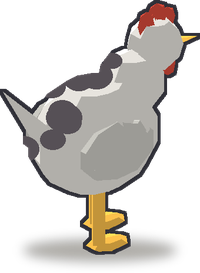
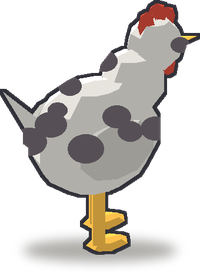
Поставить Орловскую ситцевую
Эта пришла уже мордой вправо, отражать не пришлось.

Claude-Session: https://claude.ai/code/session_013ovumMuRfj2SmgMR5kzGwz

Changed region(s): [[0.09, 0.1758, 0.63, 0.6154], [0.51, 0.381, 0.81, 0.5275], [0.84, 0.1172, 0.96, 0.2051]]

diff --git a/docs/ART-TODO.md b/docs/ART-TODO.md
@@ -25,7 +25,7 @@ python3 tools/import-art.py картинка.png <id>
 
 ## Список
 
-Всего животных 19, готовы 3.
+Всего животных 19, готовы 4.
 
 | Готово | Файл | Порода | Постройка | Уровень | Как выглядит |
 |:---:|---|---|---|:---:|---|
@@ -33,7 +33,7 @@ python3 tools/import-art.py картинка.png <id>
 | ✅ | `breed-moskchern.png` | Московская чёрная | Курятник | 2 | Чёрная, золотистая грива |
 | ✅ | `breed-leggorn.png` | Леггорн | Курятник | 3 | Белая, высокая, крупный гребень набок |
 |  | `breed-tula.png` | Тульский бойцовый | Гусятник | 4 | Серый гусь |
-|  | `breed-orlov.png` | Орловская ситцевая | Курятник | 4 | Пёстрая ситцевая, борода и баки |
+| ✅ | `breed-orlov.png` | Орловская ситцевая | Курятник | 4 | Пёстрая ситцевая, борода и баки |
 |  | `breed-pavlov.png` | Павловская | Курятник | 5 | Хохлатая, мохноногая, серебристо-пёстрая |
 |  | `breed-vietnam.png` | Вьетнамская вислобрюхая | Свинарник | 5 | Чёрная свинья, брюхо до земли |
 |  | `breed-kuchin.png` | Кучинская юбилейная | Курятник | 6 | Рыже-бурая, золотая шея |
